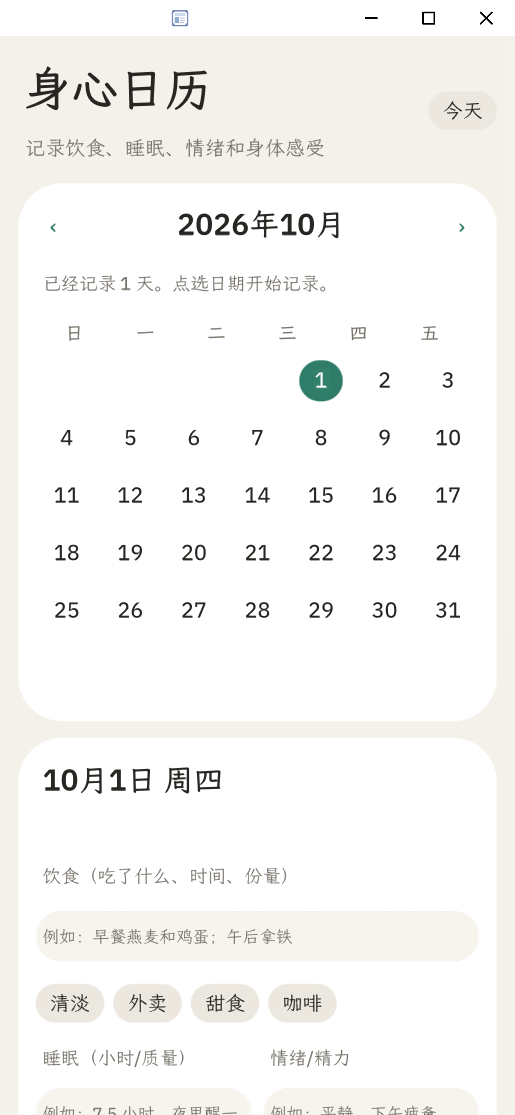
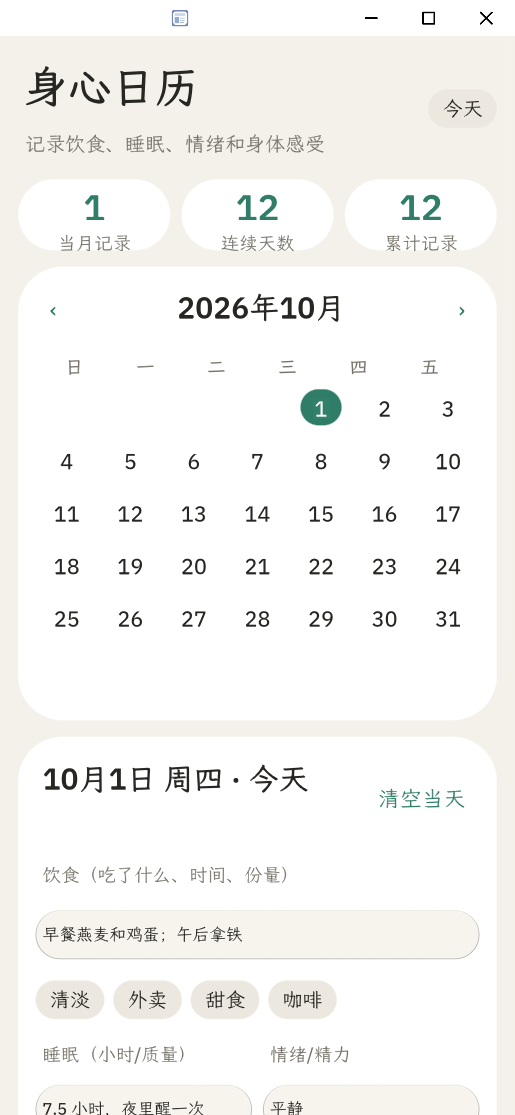
优化界面：新增统计行、精简记录表单、保存按钮改为整行
顶部新增三格统计：当月记录 / 连续天数 / 累计记录（连续天数按今天回溯计算）

记录表单标题行整合清空当天，保存按钮改为整行主按钮，表单可在单屏内完成

日历压缩行高，修正记录圆点与统计文案的渲染高度

更新 4 张真实截图（新增整月概览）并同步 listing.json；重新盖戳，hub check 通过

diff --git a/README.md b/README.md
@@ -4,6 +4,7 @@
 
 ## 功能
 
+- 顶部统计：当月记录、连续天数、累计记录
 - 月历浏览、前后月份切换和“回到今天”
 - 每日饮食、睡眠、情绪/精力、身体状态和备注
 - 常用状态快捷标签
